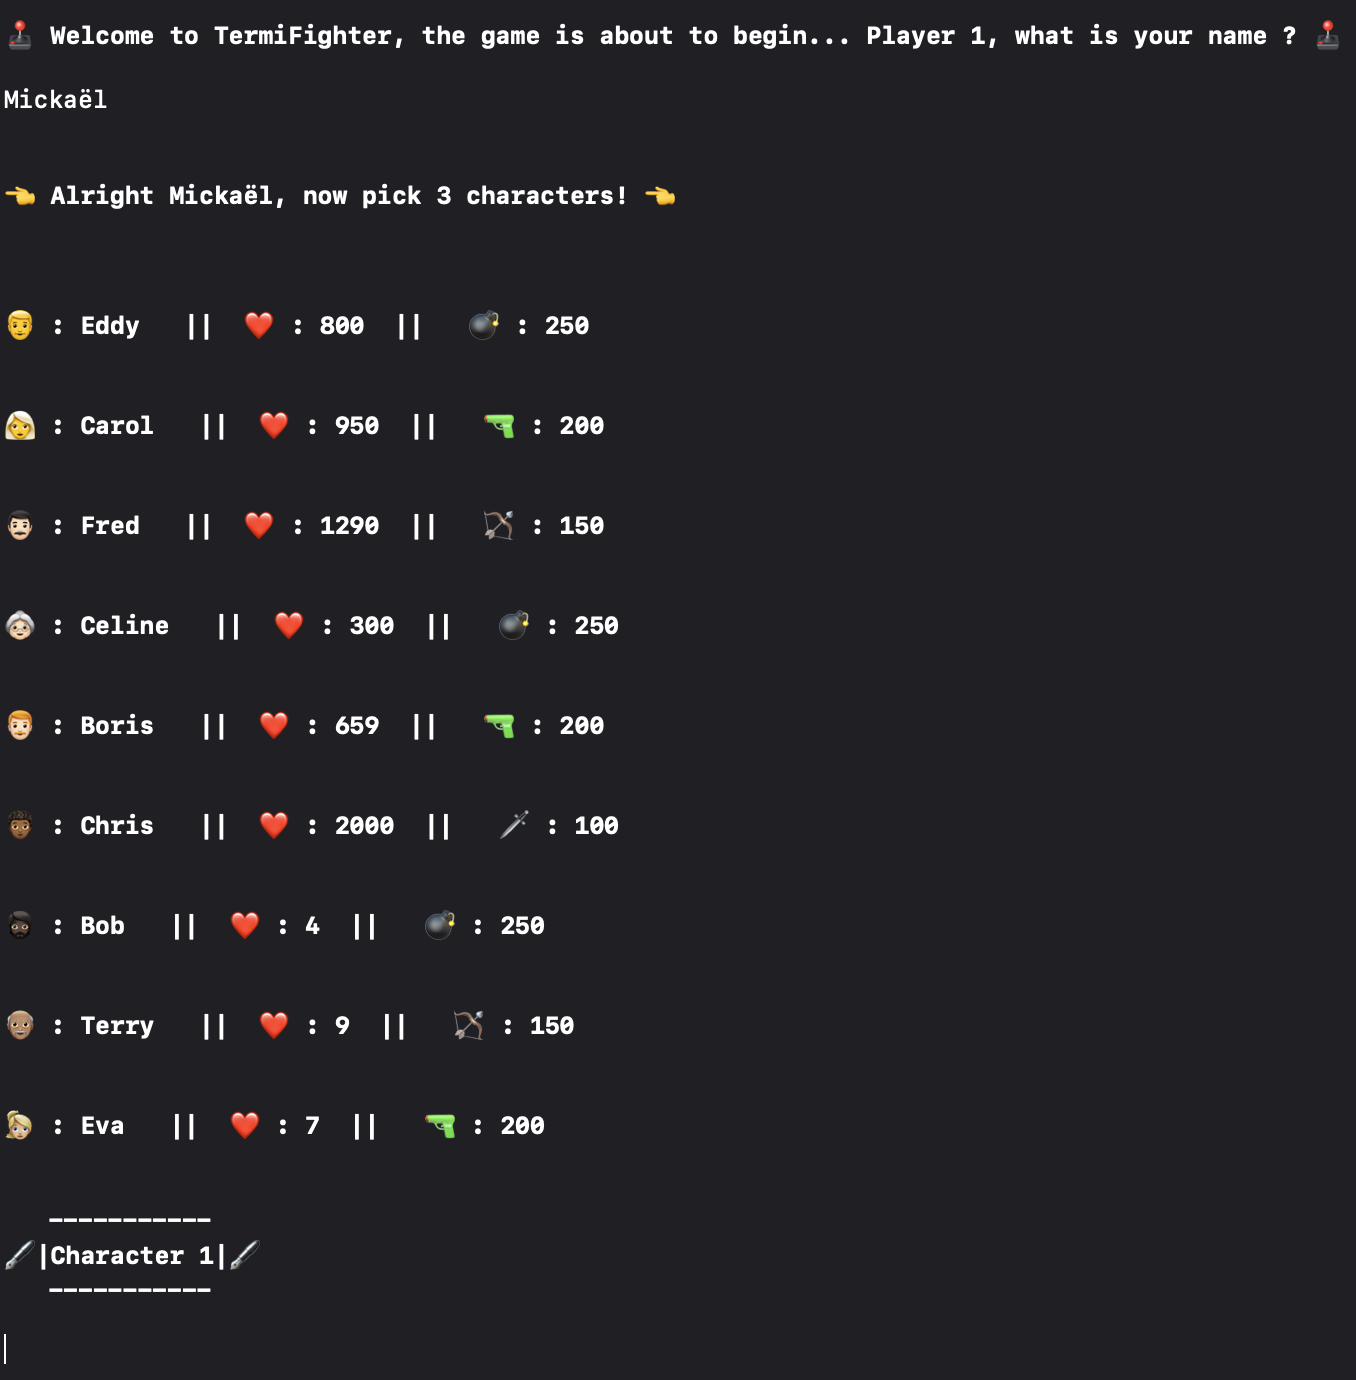
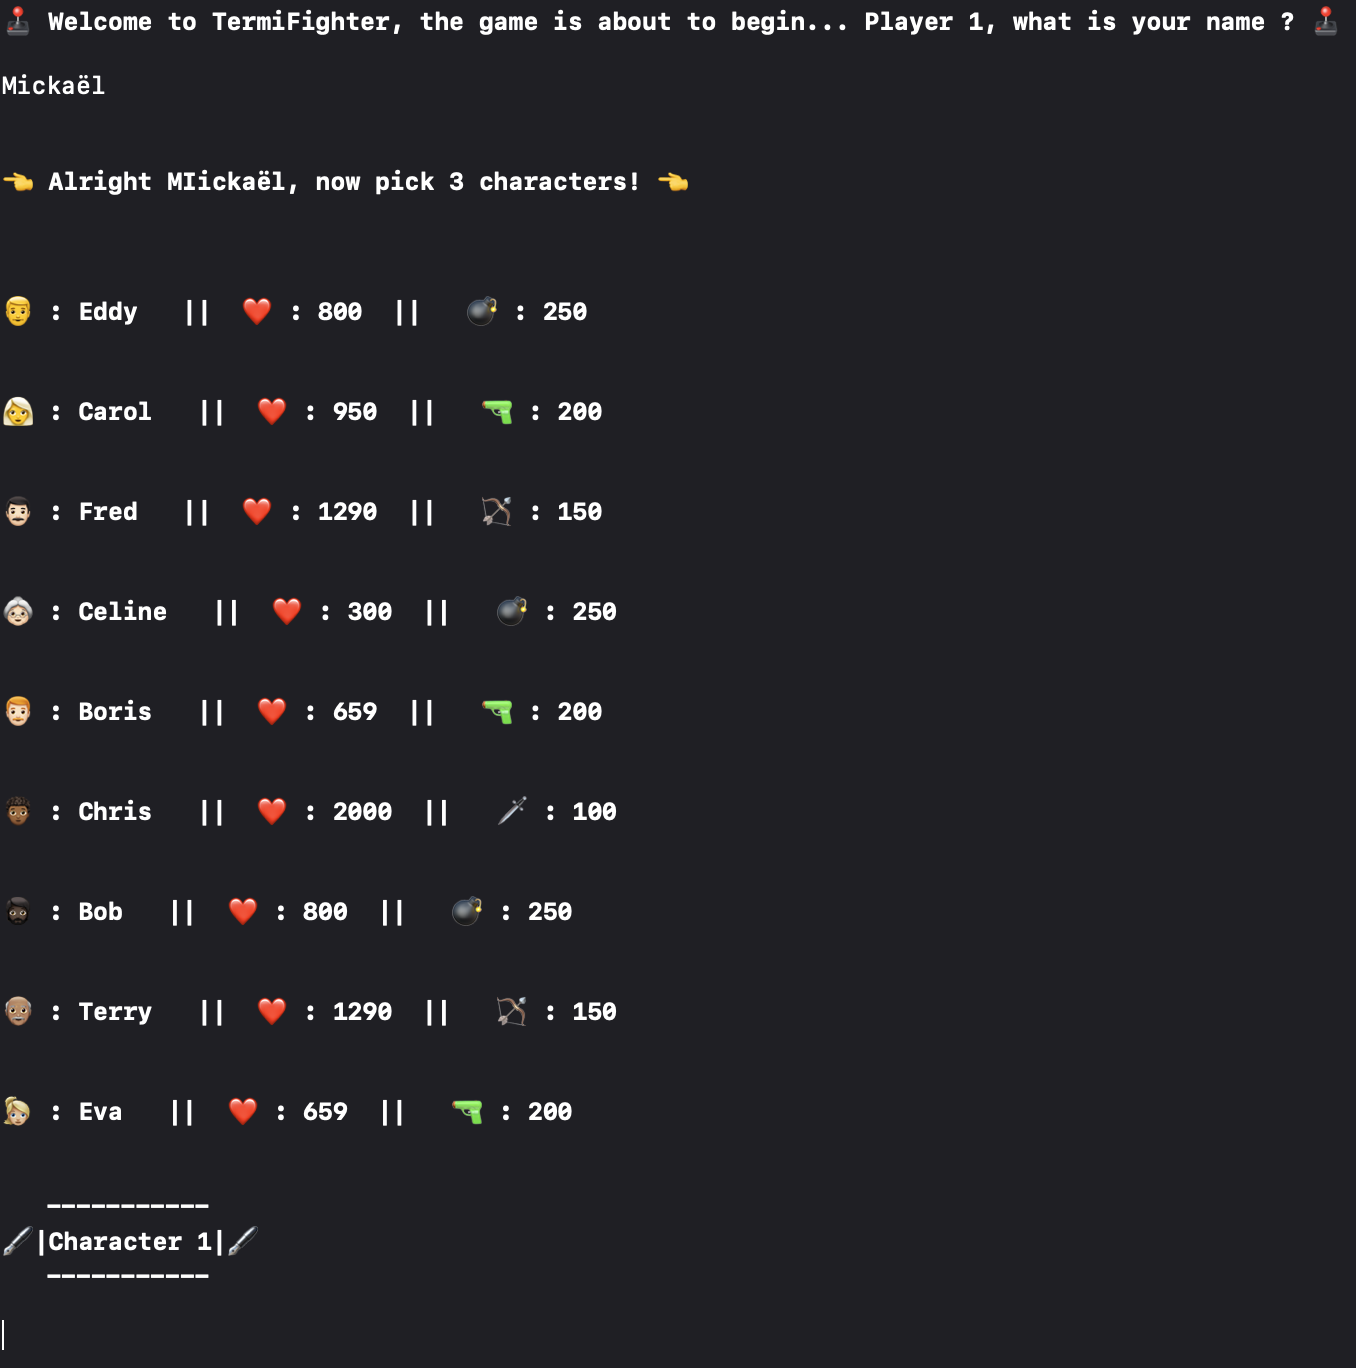
Changement d'image.

diff --git a/The Characters/Eva.swift b/The Characters/Eva.swift
@@ -9,6 +9,6 @@ import Foundation
 
 class Eva: Character {
     init() {
-        super.init(name: "Eva", health: 7, maxHealth: 7, weapon: Gun(), nameEmoji: "👱🏼♀", healthEmoji: "❤")
+        super.init(name: "Eva", health: 659, maxHealth: 659, weapon: Gun(), nameEmoji: "👱🏼♀", healthEmoji: "❤")
     }
 }

diff --git a/The Characters/Terry.swift b/The Characters/Terry.swift
@@ -9,6 +9,6 @@ import Foundation
 
 class Terry: Character {
     init() {
-        super.init(name: "Terry", health: 9, maxHealth: 9, weapon: Bow(), nameEmoji: "👴🏽", healthEmoji: "❤")
+        super.init(name: "Terry", health: 1290, maxHealth: 1290, weapon: Bow(), nameEmoji: "👴🏽", healthEmoji: "❤")
     }
 }

diff --git a/The Characters/Bob.swift b/The Characters/Bob.swift
@@ -9,6 +9,6 @@ import Foundation
 
 class Bob: Character {
     init() {
-        super.init(name: "Bob", health: 4, maxHealth: 4, weapon: Bomb(), nameEmoji: "🧔🏿", healthEmoji: "❤")
+        super.init(name: "Bob", health: 800, maxHealth: 800, weapon: Bomb(), nameEmoji: "🧔🏿", healthEmoji: "❤")
     }
 }
